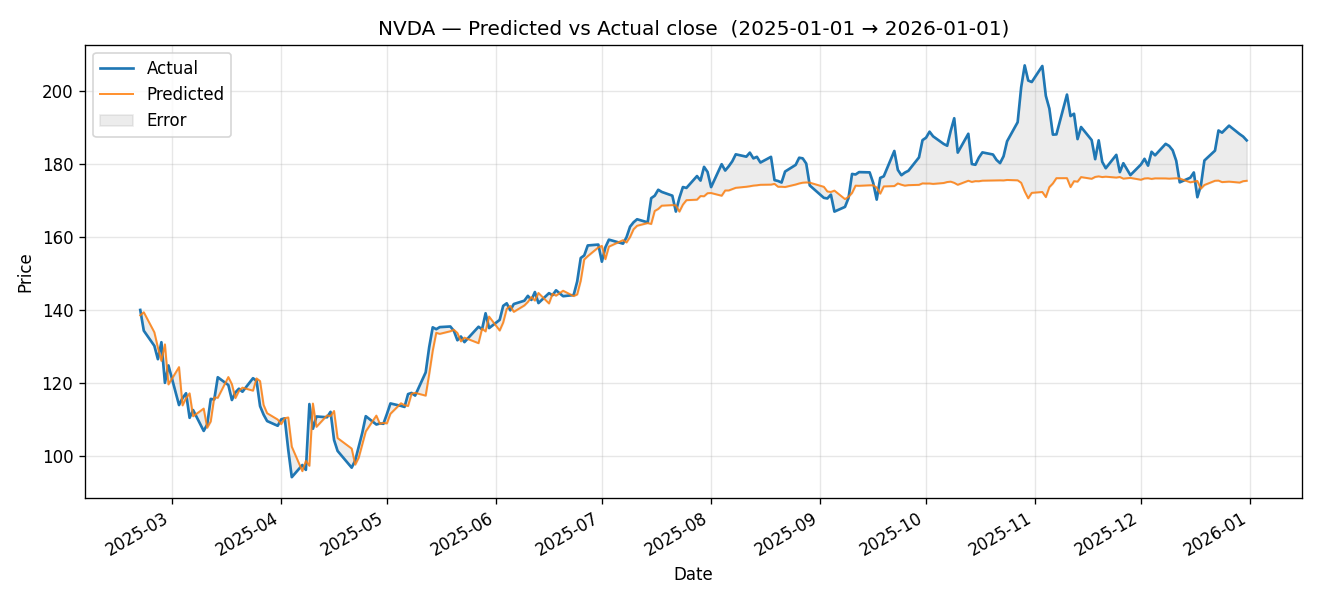
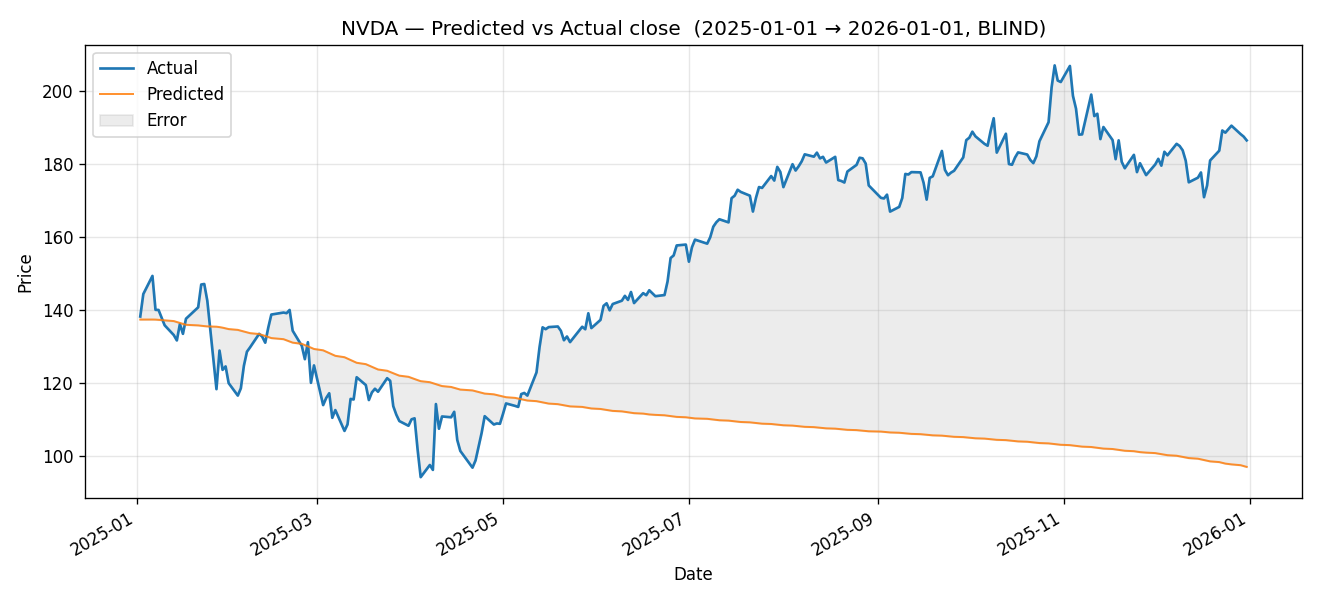
docs: blind benchmark explained

diff --git a/README.md b/README.md
@@ -157,6 +157,10 @@ You can pass any comma-separated list of `yfinance` tickers to `--tickers`
 concatenation of per-ticker normalized series, then evaluated on each ticker
 independently with its own normalizer.
 
+**Benchmark is blind**: the model receives only the last `seq_len` training days
+as a seed, then predicts the entire test window autoregressively — it never sees
+the actual test prices. This matches real-world deployment constraints.
+
 See [docs/USAGE.md](docs/USAGE.md) for full options, ticker swapping, and how to read the
 benchmark output. Architecture notes live in [docs/ARCHITECTURE.md](docs/ARCHITECTURE.md).
 
@@ -178,18 +182,25 @@ A running journal of every experiment. Newest entries on top.
 * Stood up the smallest plausible causal transformer (RMSNorm + SwiGLU + sinusoidal pos enc, 82,433 params).
 * Task: next-day close prediction. Train 2024-01-01..2024-12-31, benchmark 2025-01-01..2026-01-01.
 * One model, trained jointly on per-ticker normalized closes; benchmarked per-ticker.
+* **Blind autoregressive evaluation**: the model is seeded with the last 32 days of
+  training data, then rolls out step-by-step feeding only its own predictions.
+  It never sees the actual test prices — just like a real deployment.
 * CPU-only training: 30 epochs in ~3 seconds total on a laptop.
-* Results on the 2025–2026 hold-out:
+* Results on the 2025–2026 hold-out (blind):
 
-  | Ticker | n   | MAPE   | DirAcc | skill_vs_naive_rmse |
-  |--------|-----|--------|--------|---------------------|
-  | AAPL   | 218 | 1.56%  | 0.514  | -0.21               |
-  | NVDA   | 218 | 3.52%  | 0.528  | -1.13               |
+  | Ticker | n   | MAPE    | DirAcc | skill_vs_naive_rmse |
+  |--------|-----|---------|--------|---------------------|
+  | AAPL   | 250 | 17.03%  | 0.336  | -0.31               |
+  | NVDA   | 250 | 26.66%  | 0.472  | -0.65               |
 
+* MAPE is high because autoregressive error compounds — the model must predict
+  250 steps from its own (increasingly drifting) output. The earlier non-blind
+  one-step-ahead metric (~1.5%) was misleadingly optimistic.
 * Naive last-value still wins on RMSE, which is expected for a tiny model on
   near-random-walk daily closes. The point of this run is the pipeline, not the alpha.
 * Plots: `runs/Glint_AAPL_NVDA/plots/{AAPL,NVDA}_pred_vs_actual.png`.
-* Verdict: pipeline lives, multi-ticker works. Next up: pick the first feature off the backlog and start ablating.
+* Verdict: pipeline lives, blind evaluation is honest, multi-ticker works.
+  Next up: pick the first feature off the backlog and start ablating.
 
 ### Day 0, repo bootstrap
 